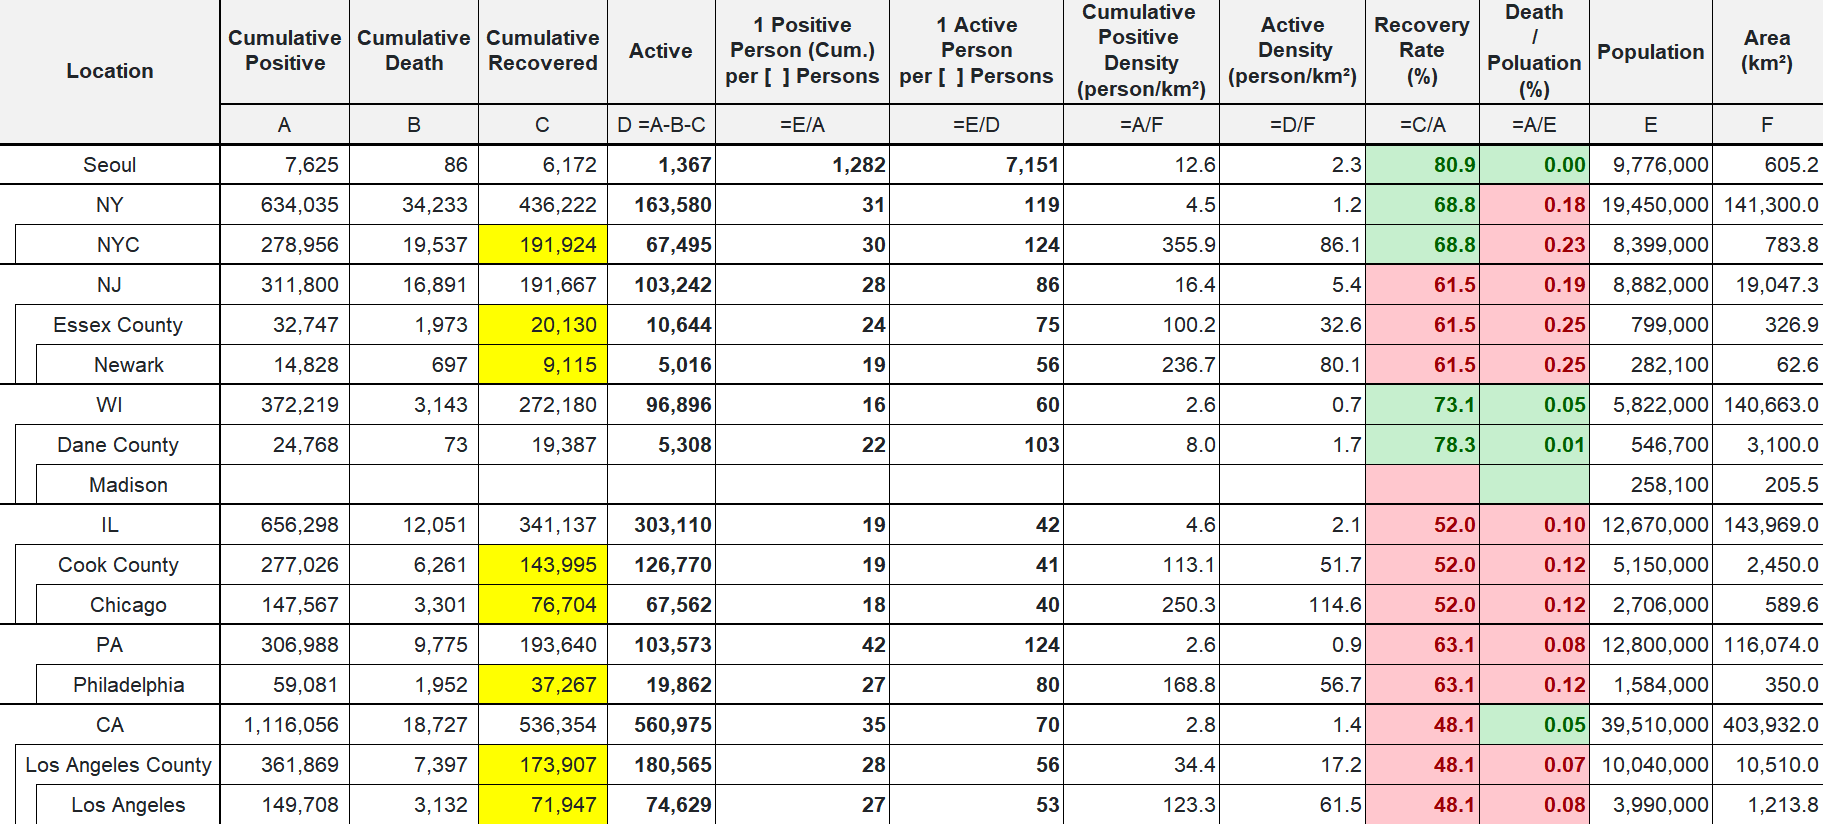
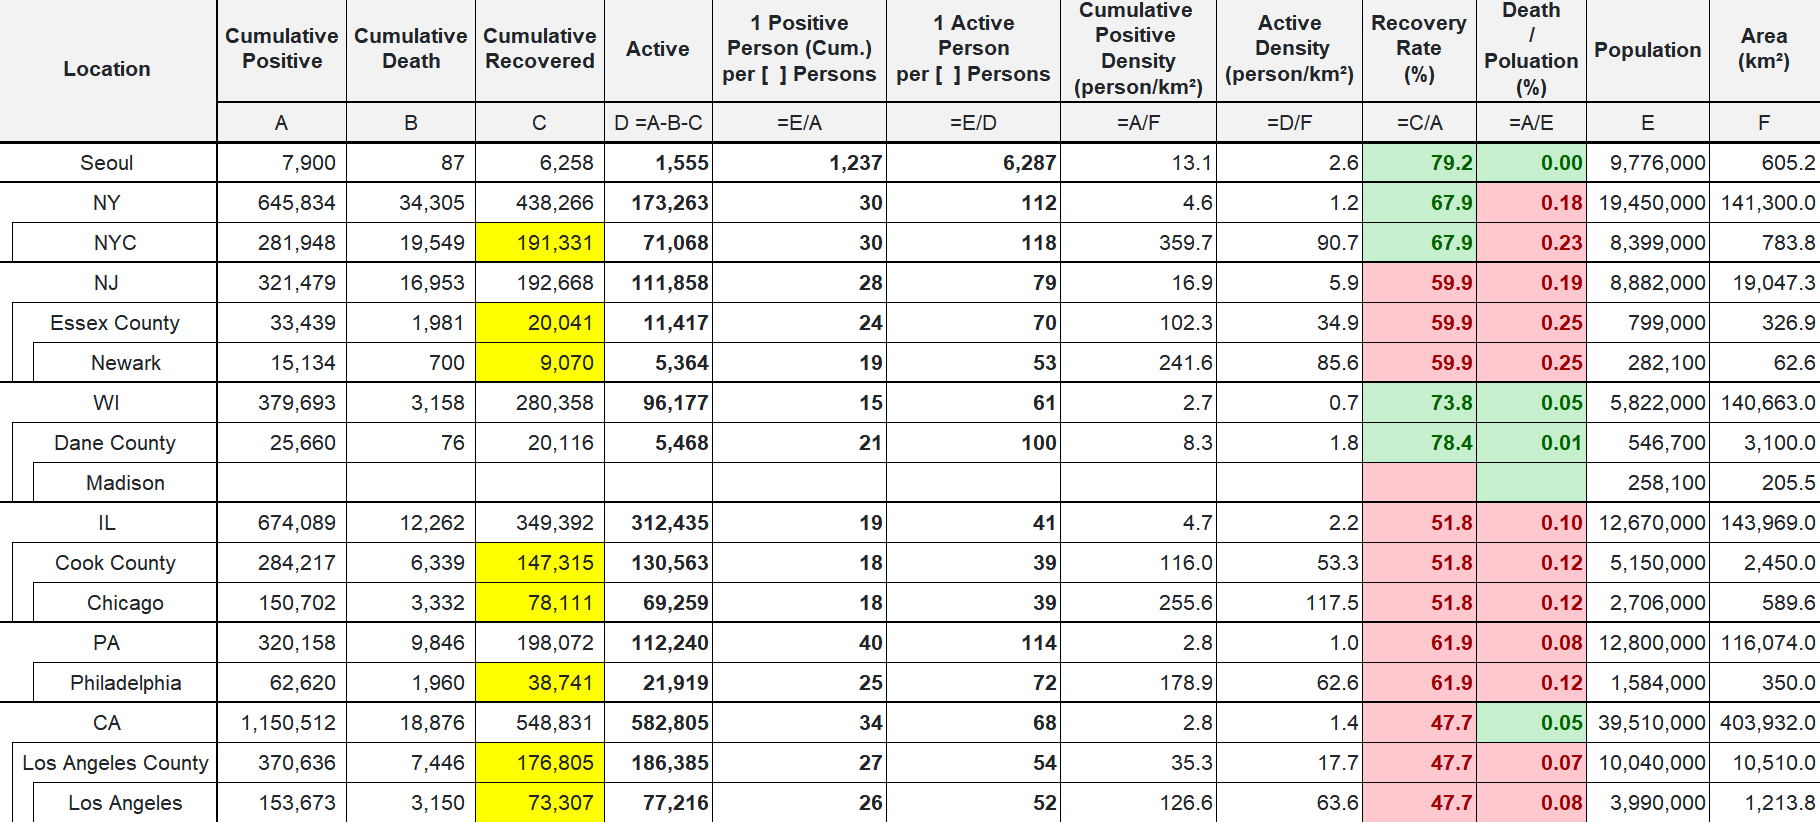
update 11/24 status

diff --git a/index.html b/index.html
@@ -19,7 +19,7 @@
 
 <body class="container-fluid">
 	<h1> CoronaV for Friends</h1>
-	<h2> Data updated at Nov 22 2020 EST 20:55</h2>
+	<h2> Data updated at Nov 24 2020 EST 22:40</h2>
 	<hr>
 	<main>
 		<div class="row">
